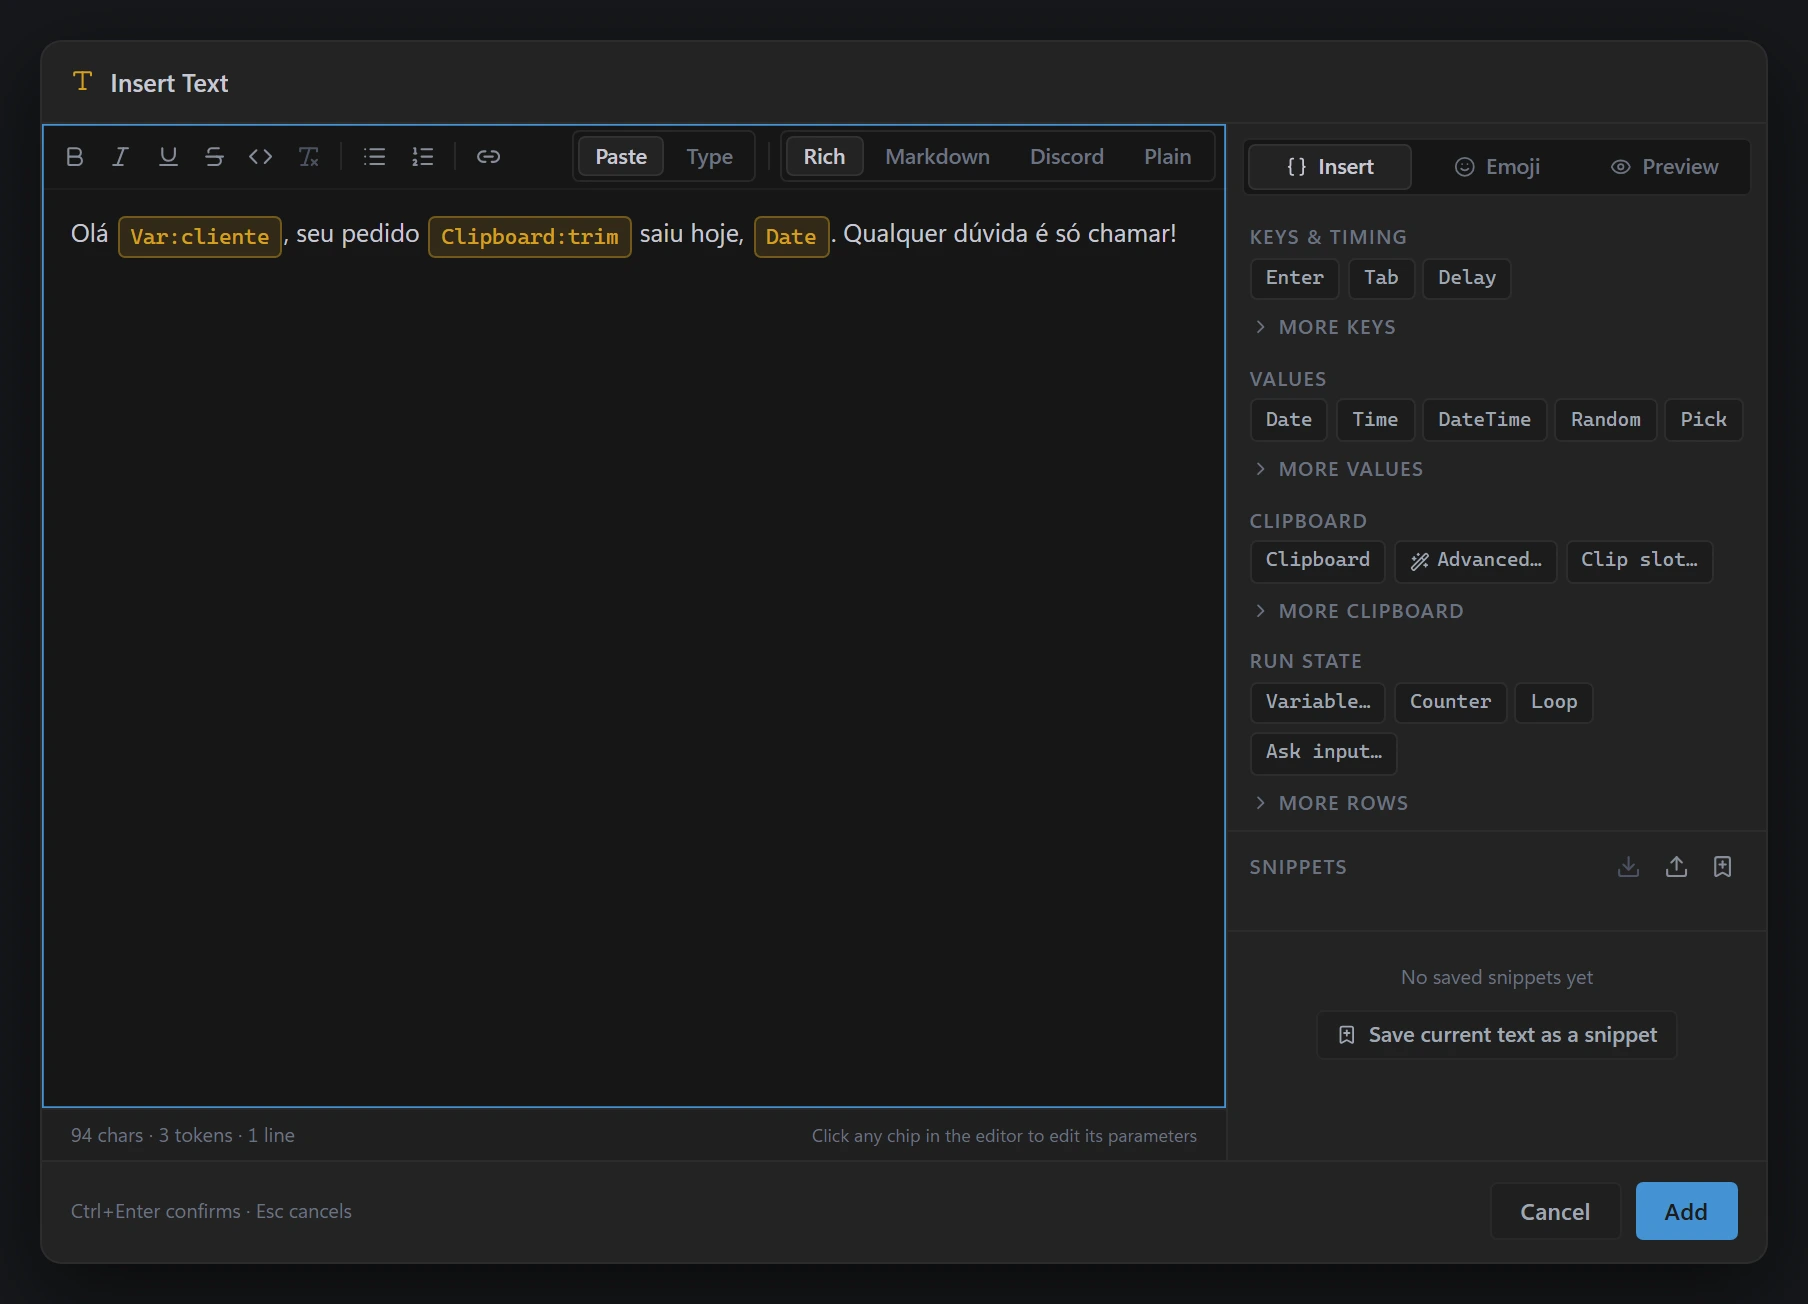
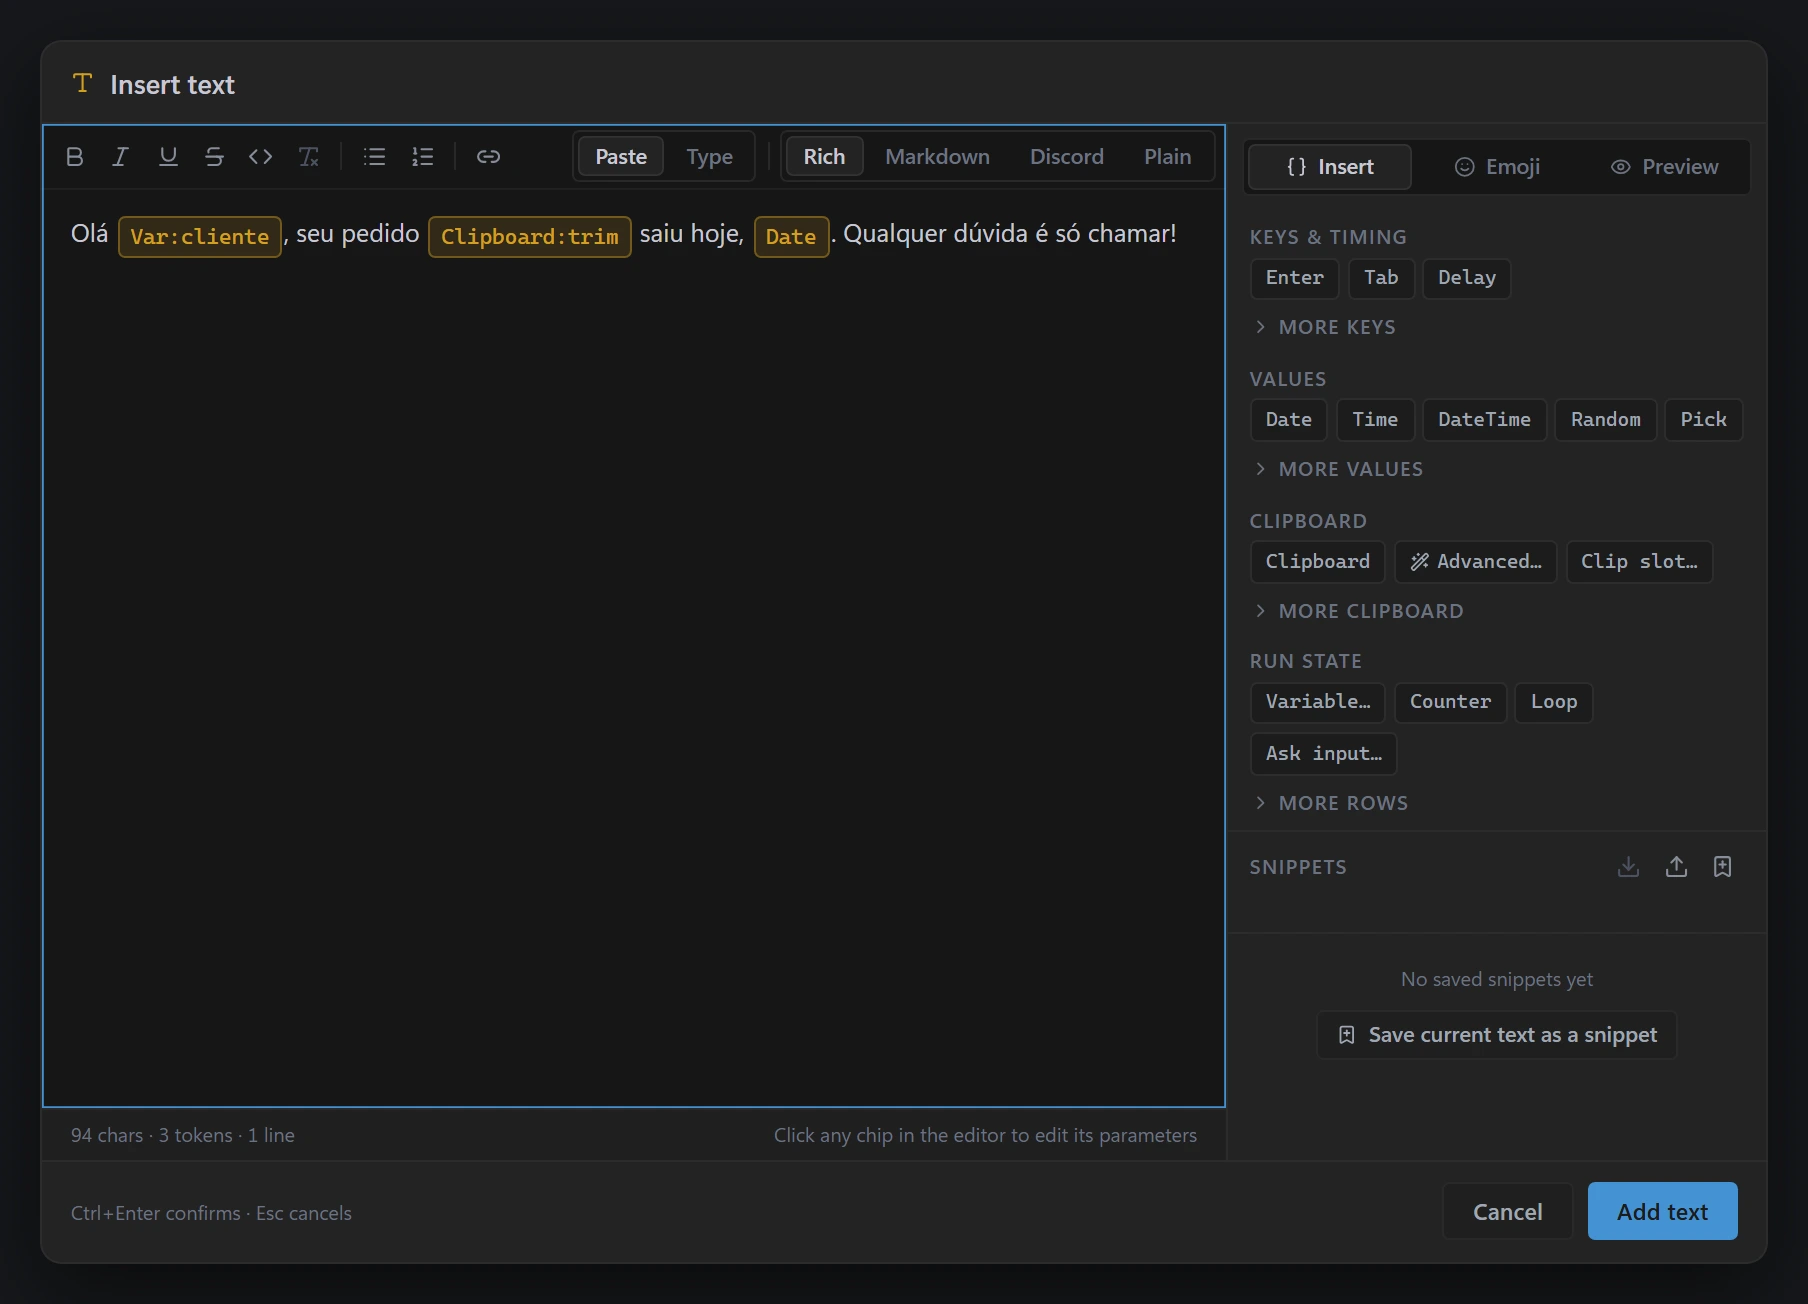
docs(manual): capturas refeitas e texto conferido contra o rework
Capturas: as nove de docs/img regeradas do app semeado (2x, mesmos
tamanhos), com o visual e os rotulos novos; etiquetas da principal
medidas de novo.

Texto, conferido contra 9dc71d3..35f139f:
- Insert click: "um eixo so bloqueia o botao de criar a linha" (vale
  nas duas versoes).
- Run report: o item cita "matched via fallback", o texto que o app
  mostra; "Casou por reserva" nao existia.
- Data Loop: Append sem cabecalho preenche pela posicao, e o Import CSV
  le o CSV do Excel em portugues com os acentos certos (selo NEXT).
- Wait Image: o recorte da referencia, com o teclado (selo NEXT).
- Rotulos que ja nao batiam com o app: "per row" no chip de loop; o
  construtor tem Split at, Join with e as etapas na ordem real.

Varreduras: nenhum rotulo citado some do frontend; SVGs sem problema
novo; 390 px no celular.

diff --git a/docs/manual.html b/docs/manual.html
@@ -837,10 +837,10 @@
   <figure class="shot">
     <div class="shot-frame">
       <img src="img/main.png" alt="A janela principal do TrueReplayer: painel de perfis à esquerda, grade de ações no centro, configurações do perfil à direita e a barra Macro/Clicker, Recording e Replay embaixo." width="1166" height="773" decoding="async">
-      <span class="shot-tag" style="left:12%;top:17.4%" aria-hidden="true">1</span>
-      <span class="shot-tag" style="left:34.3%;top:13.6%" aria-hidden="true">2</span>
-      <span class="shot-tag" style="left:92.5%;top:14.8%" aria-hidden="true">3</span>
-      <span class="shot-tag" style="left:60%;top:94%" aria-hidden="true">4</span>
+      <span class="shot-tag" style="left:12%;top:17.3%" aria-hidden="true">1</span>
+      <span class="shot-tag" style="left:34.3%;top:13.5%" aria-hidden="true">2</span>
+      <span class="shot-tag" style="left:93%;top:14.7%" aria-hidden="true">3</span>
+      <span class="shot-tag" style="left:58.4%;top:94%" aria-hidden="true">4</span>
     </div>
     <figcaption><b class="n">1</b> Profiles — pastas e perfis, cada um com sua hotkey · <b class="n">2</b> a grade de ações, uma linha por passo · <b class="n">3</b> as configurações do perfil ativo: Delay, Loops, gravação · <b class="n">4</b> a barra: Macro ou Clicker, Recording, Replay.</figcaption>
   </figure>
@@ -940,7 +940,7 @@
         <p>O mínimo de Loops é 1. Para rodar até você mandar parar, use os modos de disparo <strong>While pressed</strong> ou <strong>Toggle</strong> na hotkey (<a class="xref" href="#p3">Parte 3</a>).</p>
       </div>
     </div>
-    <p>A pílula de loop na barra mostra o que a <strong>próxima execução</strong> fará: <code>3×</code>, <code>por linha</code> (Data Loop) ou <code>∞</code>. Contorno tracejado âmbar = você mexeu nas configurações e ainda não salvou.</p>
+    <p>A pílula de loop na barra mostra o que a <strong>próxima execução</strong> fará: <code>3×</code>, <code>per row</code> (Data Loop) ou <code>∞</code>. Contorno tracejado âmbar = você mexeu nas configurações e ainda não salvou.</p>
   </div>
 </section>
 
@@ -1079,7 +1079,7 @@
     <p>O ícone de <strong>mouse</strong> na barra abre o <strong>Insert click</strong> <span class="ver-next">(a partir da versão 2.41.0)</span>. Ele monta a linha inteira antes de criá-la — <strong>Cancel</strong> não deixa nada para trás. A linha nasce na seleção, ou no fim da lista.</p>
     <figure class="shot shot-narrow" style="--shot-w:400px">
       <div class="shot-frame">
-        <img src="img/insert-click.webp" alt="Diálogo Insert Click com Mode Click, botão Left, Clicks Double, posição This point em X 1742 e Y 388, Times 5 e Gap 600 ms, e a faixa Double-clicks at 1742, 388 · 5×, 600 ms apart." width="436" height="671" loading="lazy" decoding="async">
+        <img src="img/insert-click.webp" alt="Diálogo Insert click com Mode Click, botão Left, Clicks Double, posição This point em X 1742 e Y 388, Times 5 e Gap 600 ms, e a faixa Double-clicks at 1742, 388 · 5×, 600 ms apart." width="436" height="671" loading="lazy" decoding="async">
       </div>
       <figcaption>Um duplo clique em 1742, 388, repetido cinco vezes. A faixa roxa lê a linha antes de criá-la; <strong>Right</strong> e <strong>Middle</strong> ficam apagados porque Double é do botão esquerdo.</figcaption>
     </figure>
@@ -1102,7 +1102,7 @@
       <div class="co-icon">🖱</div>
       <div>
         <p><span class="co-title">Montar um arrasto à mão.</span> Em <strong>Two rows</strong> aparece o campo <strong>Release at</strong>: digite <strong>X</strong> e <strong>Y</strong>, ou escolha o ponto na tela pelo botão ao lado. Com os dois preenchidos a linha vira um arrasto: aperta em A, solta em B.</p>
-        <p>Deixe o Release at vazio e as duas metades ficam no mesmo ponto — é a divisão simples. <strong>Um eixo só bloqueia o Add</strong>, e a nota abaixo do campo diz isso. E um arrasto <strong>sobrevive</strong> a um <em>Convert actions to combined</em> da paleta: pontos diferentes não se juntam numa linha só.</p>
+        <p>Deixe o Release at vazio e as duas metades ficam no mesmo ponto — é a divisão simples. <strong>Um eixo só bloqueia o botão de criar a linha</strong>, e a nota abaixo do campo diz isso. E um arrasto <strong>sobrevive</strong> a um <em>Convert actions to combined</em> da paleta: pontos diferentes não se juntam numa linha só.</p>
       </div>
     </div>
     <p>A faixa no rodapé lê a linha em voz de gente: <em>“Double-clicks at 1742, 388 · 5×, 600 ms apart.”</em> Sem o ponto ela fica cinza e diz o que falta. Vermelha só num caso: <strong>Release at</strong> com um número só.</p>
@@ -1369,7 +1369,7 @@
     <p>O editor <strong>Insert text</strong> mostra uma paleta de <strong>chips</strong> (Clipboard · Values · Keys &amp; timing · Run state): clicar insere o token pronto. Pelo teclado, digite <span class="kbd">{</span> para abrir a mesma lista, filtrada pelo que vier depois. Confirme a ação com <span class="kbd">Ctrl</span>+<span class="kbd">Enter</span>; o <span class="kbd">Enter</span> sozinho pula linha.</p>
     <figure class="shot">
       <div class="shot-frame">
-        <img src="img/insert-text.webp" alt="Editor Insert Text com uma mensagem em que três tokens aparecem como chips (Var:cliente, Clipboard:trim e Date), a barra com Paste e Type e o seletor Rich, Markdown, Discord e Plain, e a paleta de tokens à direita." width="904" height="652" loading="lazy" decoding="async">
+        <img src="img/insert-text.webp" alt="Editor Insert text com uma mensagem em que três tokens aparecem como chips (Var:cliente, Clipboard:trim e Date), a barra com Paste e Type e o seletor Rich, Markdown, Discord e Plain, e a paleta de tokens à direita." width="904" height="652" loading="lazy" decoding="async">
       </div>
       <figcaption>Os tokens digitados viram chips. Na barra, <strong>Paste</strong> / <strong>Type</strong> e o seletor <strong>Delivery</strong>; à direita, a paleta.</figcaption>
     </figure>
@@ -1652,7 +1652,7 @@ maria@email.com
     </div>
 
     <h4 style="margin-top:26px">Cortar num dois-pontos</h4>
-    <p>O <code>:</code> separa a cadeia, então para usá-lo como marcador ele é gravado <strong>em dobro</strong> (<code>::</code>). No campo <strong>Cortar em</strong> do construtor você digita <code>&nbsp;:&nbsp;</code> normalmente — a dobra é só a forma de gravar. Montando à mão:</p>
+    <p>O <code>:</code> separa a cadeia, então para usá-lo como marcador ele é gravado <strong>em dobro</strong> (<code>::</code>). Na etapa <strong>Split at</strong> do construtor você digita <code>&nbsp;:&nbsp;</code> normalmente — a dobra é só a forma de gravar. Montando à mão:</p>
     <div class="tbl-wrap">
       <table>
         <thead><tr><th>Você quer cortar em</th><th>Escreva</th></tr></thead>
@@ -1663,7 +1663,7 @@ maria@email.com
         </tbody>
       </table>
     </div>
-    <p>Vale para os quatro cortes, para <code>dropnum</code> e para <code>default</code>. <strong>Exceção: o <code>join</code> e o <code>replace</code></strong> — ali o dobrado já significa "juntar sem separador nenhum", então o campo Juntar com continua removendo o <code>:</code>.</p>
+    <p>Vale para os quatro cortes, para <code>dropnum</code> e para <code>default</code>. <strong>Exceção: o <code>join</code> e o <code>replace</code></strong> — ali o dobrado já significa "juntar sem separador nenhum", então o campo <strong>Join with</strong> continua removendo o <code>:</code>.</p>
 
     <h4 style="margin-top:26px">Removendo quantidade do começo: <code>dropnum</code></h4>
     <p>Texto que às vezes vem com contador na frente — <code>1x Caixa de Sapato</code> num dia, <code>Caixa de Sapato</code> no outro. O <code>dropnum:X</code> resolve: <strong>se</strong> começa com números seguidos de X, remove os dois; <strong>senão, não mexe</strong>.</p>
@@ -1720,7 +1720,7 @@ maria@email.com
       <div class="co-icon">🛠</div>
       <div>
         <p><span class="co-title">Você não precisa montar isso de cabeça.</span></p>
-    <p>O chip <strong>Advanced…</strong>, ou um clique num chip inserido, abre o <strong>construtor</strong>. São etapas numeradas com <strong>prévia ao vivo</strong>: Trim, Cortar, Drop count, Linha/palavra, Ordenar, Juntar, Clean up, Count &amp; pad, Case. Elas aplicam nessa ordem fixa; modificador desconhecido é ignorado.</p>
+    <p>O chip <strong>Advanced…</strong>, ou um clique num chip inserido, abre o <strong>construtor</strong>. São etapas numeradas com <strong>prévia ao vivo</strong>: Sequence (só no Clipboard), Trim, Replace, Split at, Drop count, Lines, Extract, Limit length, Clean up, Count &amp; pad, Case e Default. Elas aplicam nessa ordem fixa; modificador desconhecido é ignorado.</p>
       </div>
     </div>
   </div>
@@ -2262,6 +2262,7 @@ Código de entrega: <span class="hl">{clip:3}</span><span class="hl">{enter}</sp
       <li><strong>Timeout + On timeout</strong> — quanto esperar e o que fazer se estourar: <strong>Halt</strong> para a macro, <strong>Continue</strong> segue.</li>
       <li><strong>Click on found location</strong> — clica direto no ponto encontrado, poupando uma ação de clique.</li>
       <li><strong>Search region</strong> — o pedaço da tela onde procurar, pelo botão <strong>Configure search region</strong>. Sem região, a busca é na tela inteira, e isso custa caro nos dois sentidos (veja abaixo).</li>
+<li><strong>Ajustar o recorte</strong> — clique na miniatura da imagem para abrir o <strong>Crop reference image</strong> e arraste o retângulo ou as alças. Pelo teclado <span class="ver-next">(a partir da versão NEXT)</span>: <span class="kbd">Tab</span> até o retângulo; setas movem, <span class="kbd">Ctrl</span>+setas redimensionam, e com <span class="kbd">Shift</span> o passo é de 10 px.</li>
     </ul>
 
     <div class="callout co-warn">
@@ -2752,7 +2753,7 @@ Código de entrega: <span class="hl">{clip:3}</span><span class="hl">{enter}</sp
     <h3 id="p11-run-report-qual-passo-quebrou-e-por-que">Run report — qual passo quebrou, e por quê</h3>
     <p><span class="kbd">Ctrl</span>+<span class="kbd">K</span> → <strong>Run Report</strong>: a última execução passo a passo, com o que cada um mirou e quanto levou. Duas coisas que só ele mostra:</p>
     <ul>
-      <li><strong>"Casou por reserva"</strong> — o seletor que <em>você</em> escolheu já não casa e a macro acertou pelo plano B. O passo <em>passou</em>, mas está a uma mudança do site de parar: re-escolha o elemento.</li>
+      <li><strong>matched via fallback</strong> — o seletor que <em>você</em> escolheu já não casa e a macro acertou pelo plano B. O passo <em>passou</em>, mas está a uma mudança do site de parar: re-escolha o elemento.</li>
       <li><strong>Por que falhou, em texto</strong> — não achou; achou mas invisível; achou mas desabilitado; tem algo por cima; seletor inválido; página não carregou.</li>
       <li><strong>Run Profile que não rodou nada</strong> — perfil <em>desabilitado</em>, inexistente, sem nome escolhido, ou que faria a corrente voltar nela mesma. A linha aparece como <em>skipped</em> com o motivo escrito, inclusive qual corrente laçou.</li>
     </ul>
@@ -2781,16 +2782,17 @@ Código de entrega: <span class="hl">{clip:3}</span><span class="hl">{enter}</sp
   <div class="subsec">
     <h3 id="p12-colocando-dados-na-tabela">Colocando dados na tabela</h3>
     <p>Barra → ícone de tabela. Três caminhos: <strong>Paste / bulk edit…</strong> (cole do Excel), <strong>Import CSV…</strong> (delimitador detectado sozinho) ou editar direto na grade. Cabeçalhos aceitam espaços, acentos e pontuação — <span class="tok">{row:Nome Completo}</span> funciona. Só <code>{</code>, <code>}</code> e <code>:</code> não entram: o cabeçalho ganha ⚠, e a varinha conserta.</p>
+<p>O <strong>Import CSV…</strong> lê o CSV comum do Excel em português com os acentos certos <span class="ver-next">(a partir da versão NEXT)</span>.</p>
     <div class="tbl-wrap">
       <table>
         <thead><tr><th>Modo</th><th>O que faz</th></tr></thead>
         <tbody>
           <tr><td><strong>Replace table</strong></td><td>Troca a tabela inteira. Abre preenchido com a atual — é também o caminho da edição em massa: conserte o texto e aplique.</td></tr>
-          <tr><td><strong>Append rows</strong></td><td>Acrescenta linhas, casando as colunas <strong>pelo nome</strong>. Coluna colada que não existe vira coluna nova.</td></tr>
+          <tr><td><strong>Append rows</strong></td><td>Acrescenta linhas, casando as colunas <strong>pelo nome</strong>; coluna colada que não existe vira coluna nova. Com <strong>First row is the header</strong> desligado, preenche <strong>pela posição</strong> — a 1ª coluna colada na 1ª da tabela, e assim por diante <span class="ver-next">(a partir da versão NEXT)</span>.</td></tr>
         </tbody>
       </table>
     </div>
-    <p><strong>Cole junto com a linha de cabeçalho</strong> — é dela que saem os nomes que o Append usa para casar. O painel da direita mostra o que leu antes de você aplicar (<strong>3 columns · 40 rows</strong>), e o botão diz o que vai fazer.</p>
+    <p><strong>Para casar pelo nome, cole junto com a linha de cabeçalho</strong> — é dela que saem os nomes. O painel da direita mostra o que leu antes de você aplicar (<strong>3 columns · 40 rows</strong>), e o botão diz o que vai fazer.</p>
     <p><strong>Célula sobrando vira coluna nova</strong> <span class="ver-next">(a partir da versão 2.38.0)</span>. Linha com mais células que o cabeçalho ganha <code>col3</code>, <code>col4</code>… — o painel avisa antes. Linha mais curta não dá erro: as que faltam ficam vazias.</p>
     <p><strong>Renomeie antes de espalhar o token.</strong> Clique no cabeçalho na grade e escreva o nome de verdade: <code>col3</code> vira <code>preço</code>, e o token vira <span class="tok">{row:preço}</span>. A lista <strong>Columns · tokens</strong>, ao lado da grade, dá o token pronto e quantas ações usam cada coluna. Token sem coluna aparece com ⚠ <code>no column</code> e sai <strong>vazio</strong>.</p>
     <figure class="shot">
